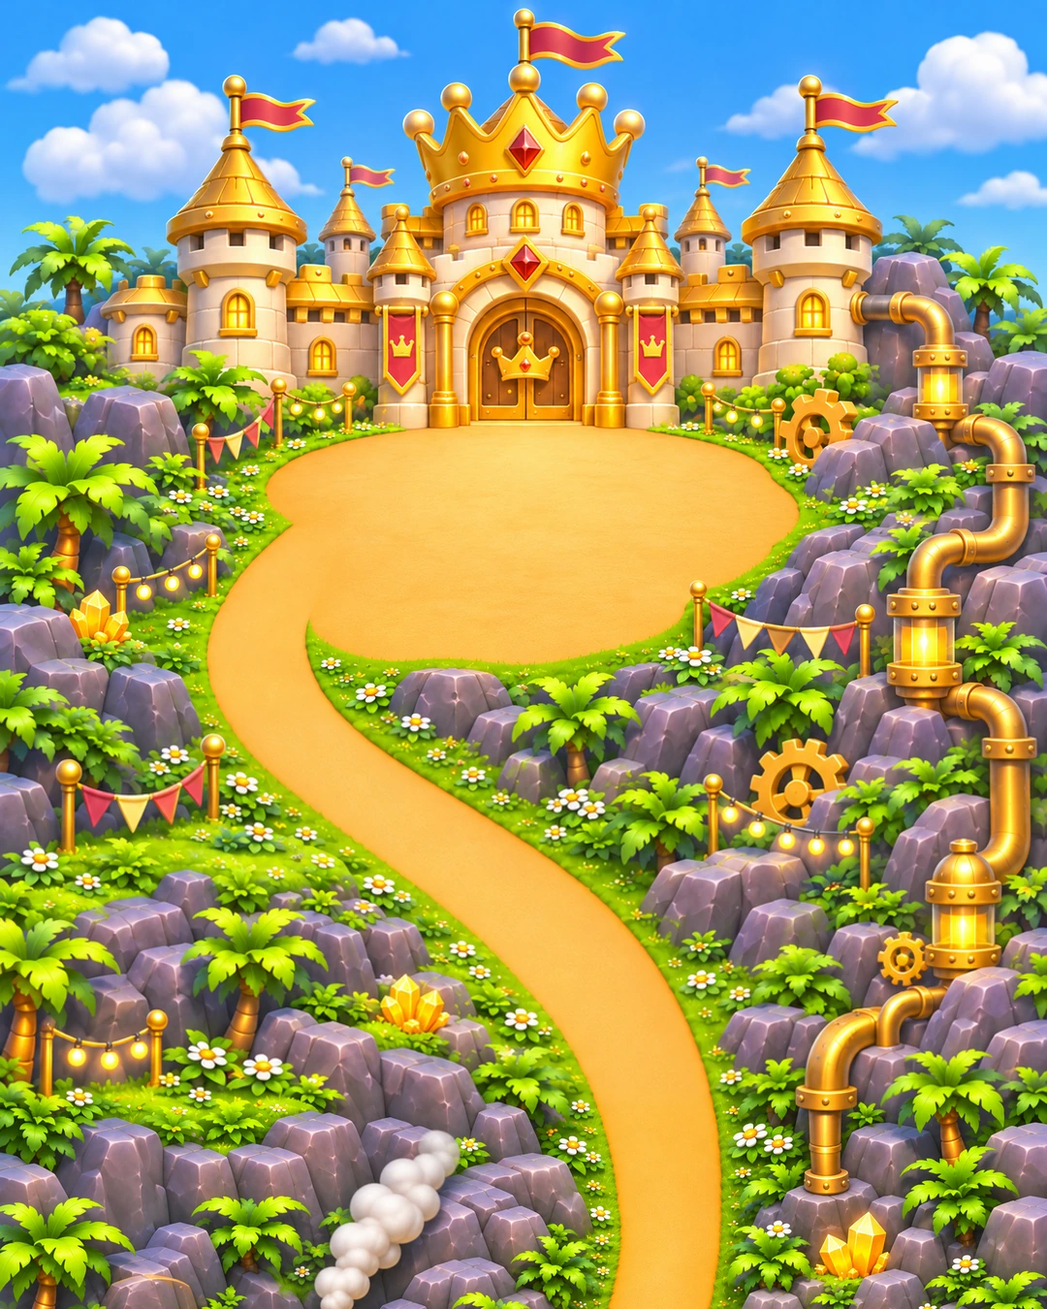
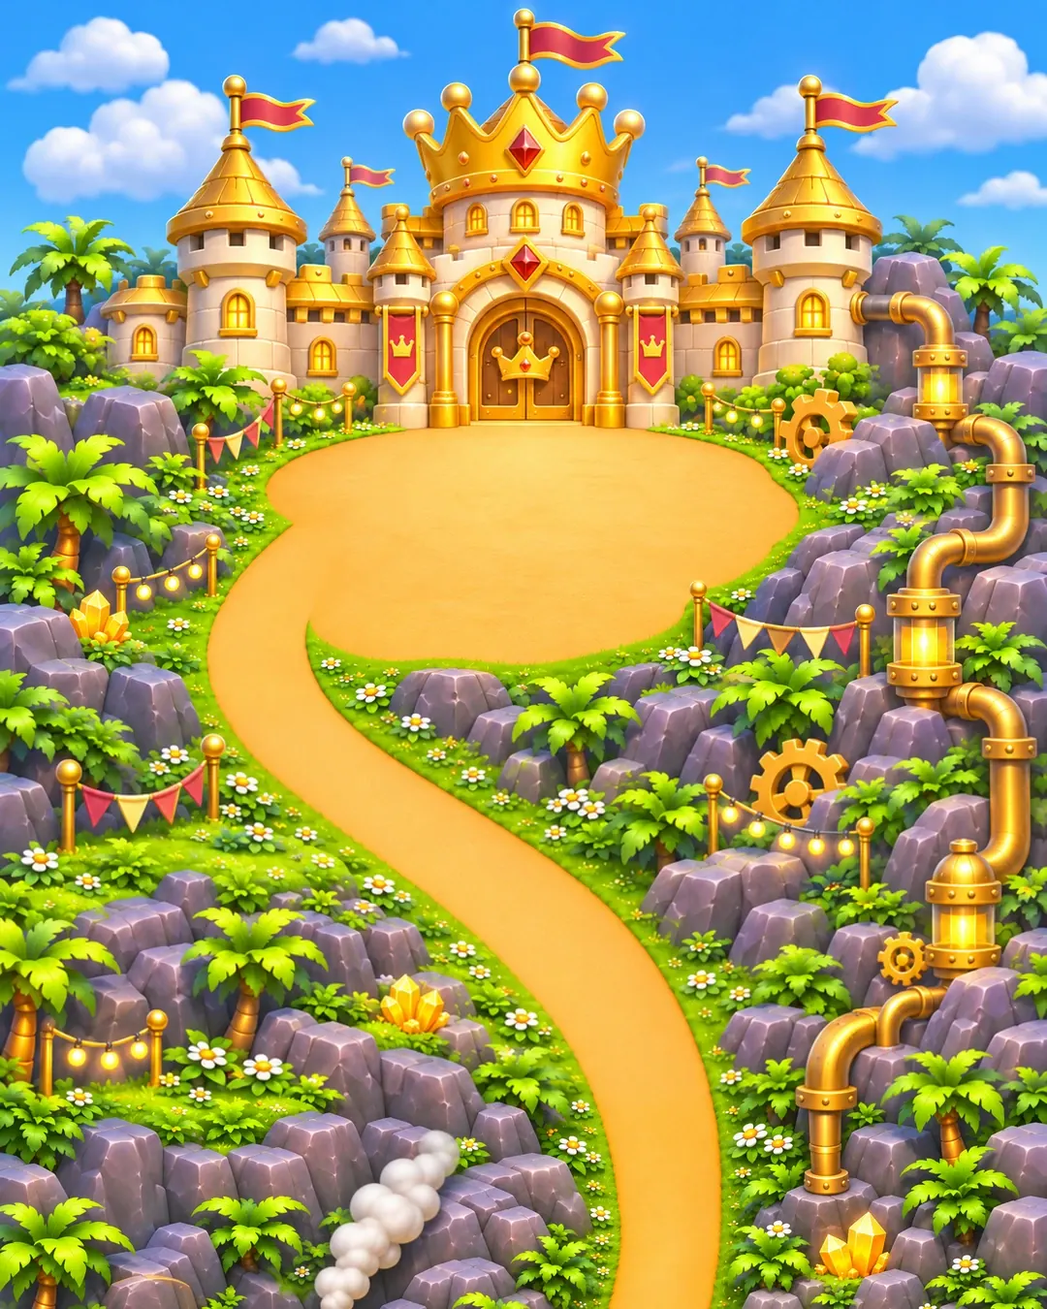
效能優化：圖片獨立快取（升版不重抓圖、木島地圖用到才下載）、金島背景壓縮一半、派對 CSS 合併、新增離線快取測試
Claude-Session: https://claude.ai/code/session_01W9KMAgp1CRKeHuYohfaeHn

diff --git a/css/style.css b/css/style.css
@@ -2047,21 +2047,35 @@ body.story-on .map-page .map-shop, body.story-on .map-page .dice-bar, body.story
   transition: left .55s ease-in, top .55s ease-in, transform .55s ease-in, opacity .55s; -webkit-tap-highlight-color: transparent; }
 .meadow-img { width: 100%; height: 100%; object-fit: contain; filter: drop-shadow(0 0 6px rgba(255, 255, 220, .95)); animation: ore-bob 1.3s ease-in-out infinite; }
 .meadow-item.got { transform: translate(-50%, -50%) scale(.35); opacity: .2; pointer-events: none; }
-/* 第 65 格：邀請卡與貼紙 */
-.invite-art { aspect-ratio: auto; background: #fff8ec; padding: 6px 0; }
-.invite-card { position: relative; width: min(62vw, 230px); margin: 0 auto; transition: width .4s; }
+/* 第 65 格：邀請卡（白色內框可貼 6～20 張貼紙、用粉彩畫圖） */
+.invite-art { aspect-ratio: auto; background: #fff8ec; padding: 4px 0; }
+.invite-card { position: relative; width: min(84vw, 320px); margin: 0 auto; transition: width .4s; }
 .invite-card.small { width: min(30vw, 110px); }
 .invite-card-img { display: block; width: 100%; height: auto; }
-.invite-area { position: absolute; left: 22%; right: 22%; top: 22%; bottom: 20%; }
-.card-sticker { position: absolute; width: 26%; height: auto; pointer-events: none; }
+.invite-area { position: absolute; left: 17%; right: 17%; top: 17%; bottom: 17%; }   /* 對齊卡片白色內框（和 js 的 AREA 一致） */
+.invite-draw { position: absolute; inset: 0; width: 100%; height: 100%; touch-action: none; cursor: crosshair; border-radius: 6px; }
+.invite-card.small .invite-draw { pointer-events: none; }
+.card-sticker { position: absolute; width: 18%; height: auto; pointer-events: none; }
 .invite-count { position: absolute; right: 4%; bottom: 4%; padding: 2px 8px; border-radius: 99px; background: rgba(255, 255, 255, .85); font-weight: 900; color: #8a4f12; font-size: .85rem; }
 .invite-count.ok { background: #ffe27a; }
 .invite-card.small .invite-count { display: none; }
+.pen-tray { display: flex; justify-content: center; align-items: center; gap: 8px; margin-bottom: 6px; }
+.pen-color { width: 32px; height: 32px; border-radius: 50%; border: 3px solid #fff; background: var(--pen); box-shadow: 0 0 0 2px #e6cf9a; padding: 0; cursor: pointer; font-size: 1rem; line-height: 1; }
+.pen-color.on { box-shadow: 0 0 0 3px #e08a2c; transform: scale(1.12); }
+.pen-eraser { background: #fff; }
+.pen-actions { display: grid; gap: 6px; }
+.pen-act { padding: 6px 10px; border-radius: 12px; border: 2px solid #f1d58f; background: #fffdf6; color: #8a6a3a; font-weight: 800; font-size: .8rem; cursor: pointer; }
+.pen-act:disabled { opacity: .4; cursor: default; }
 .sticker-tray, .deco-tray { display: flex; justify-content: center; gap: 10px; flex-wrap: wrap; }
+.sticker-tray { align-items: center; }
 .sticker-src, .deco-src { display: grid; justify-items: center; gap: 2px; padding: 6px 8px; border-radius: 16px; border: 2px solid #f1d58f; background: #fffdf6; cursor: grab; touch-action: none; user-select: none; -webkit-user-select: none; }
 .sticker-src img { width: 56px; height: 56px; object-fit: contain; pointer-events: none; }
 .sticker-src small, .deco-src small { font-weight: 800; color: #8a6a3a; font-size: .75rem; }
+.sticker-src.full { opacity: .45; }
+.sticker-src.shake { animation: sticker-shake .35s; }
+@keyframes sticker-shake { 25% { transform: translateX(-4px); } 75% { transform: translateX(4px); } }
 .sticker-ghost { position: fixed; z-index: 1300; width: 56px; height: 56px; object-fit: contain; transform: translate(-50%, -50%) scale(1.15); pointer-events: none; filter: drop-shadow(0 6px 6px rgba(0, 0, 0, .3)); }
+.invite-save { margin-left: 8px; }
 .invite-friends { display: flex; justify-content: center; gap: 6px; margin-top: 6px; }
 .invite-friend { position: relative; width: 31%; padding: 0; border: 0; background: none; cursor: pointer; }
 .friend-img { width: 100%; height: auto; transition: transform .25s; }
@@ -2069,44 +2083,20 @@ body.story-on .map-page .map-shop, body.story-on .map-page .dice-bar, body.story
 .friend-thanks { position: absolute; left: 50%; top: -6px; transform: translateX(-50%); padding: 2px 8px; border-radius: 10px; background: #fff; box-shadow: 0 2px 6px rgba(0, 0, 0, .2); font-weight: 900; font-size: .8rem; color: #e2473f; opacity: 0; transition: opacity .25s; white-space: nowrap; }
 .invite-friend.got .friend-thanks { opacity: 1; }
 .invite-friend:not(.got) { animation: ore-bob 1.6s ease-in-out infinite; }
-/* 第 92 格：派對布置 */
+/* 第 92 格：派對布置（裝飾 5 個排成一排） */
 .party-slot { position: absolute; width: 10%; aspect-ratio: 1; padding: 0; border: 0; border-radius: 50%; transform: translate(-50%, -88%); cursor: pointer;
   background: radial-gradient(circle, rgba(255, 250, 200, .95) 0, rgba(255, 230, 120, .55) 45%, rgba(255, 230, 120, 0) 70%); animation: ore-bob 1.2s ease-in-out infinite; }
 .party-slot.filled { background: none; animation: none; width: 11%; }
 .party-slot img { width: 100%; height: 100%; object-fit: contain; filter: drop-shadow(0 3px 2px rgba(40, 30, 10, .35)); }
 .party-slot.deco-balloons { width: 12%; }
-.deco-src { cursor: pointer; }
-.deco-src img { width: 44px; height: 44px; object-fit: contain; }
+.deco-tray { flex-wrap: nowrap; gap: 6px; }
+.deco-src { cursor: pointer; padding: 4px 5px; border-radius: 12px; min-width: 0; flex: 1 1 0; max-width: 64px; }
+.deco-src img { width: 36px; height: 36px; object-fit: contain; }
+.deco-src small { font-size: .68rem; white-space: nowrap; }
 .deco-src.on { border-color: #ff9c3a; background: #fff1d6; box-shadow: 0 0 0 3px rgba(255, 156, 58, .35); }
 @media (prefers-reduced-motion: reduce) { .meadow-img, .invite-friend, .party-slot, .wood-elf img { animation: none; } .meadow-item { transition: none; } }
-/* 修正：.scene-art img 會把卡片裡的圖撐滿，貼紙、卡片、動物要維持自己的大小 */
-.scene-art .card-sticker { width: 22%; height: auto; object-fit: contain; }
+/* .scene-art img 預設撐滿畫面；視窗裡的貼紙、卡片、動物、畫布維持自己的大小 */
+.scene-art .card-sticker { width: 18%; height: auto; object-fit: contain; }
 .scene-art .invite-card-img, .scene-art .friend-img { height: auto; object-fit: contain; }
-.scene-art .meadow-img, .scene-art .party-slot img { object-fit: contain; }
-/* 派對裝飾 5 個排成一排 */
-.deco-tray { flex-wrap: nowrap; gap: 6px; }
-.deco-src { padding: 4px 5px; border-radius: 12px; min-width: 0; flex: 1 1 0; max-width: 64px; }
-.deco-src img { width: 36px; height: 36px; }
-.deco-src small { font-size: .68rem; white-space: nowrap; }
-/* 2026-11-09 家長調整：邀請卡大一點、貼紙小一點，貼得下更多花瓣和樹葉 */
-.invite-card { width: min(84vw, 320px); }
-.scene-art .card-sticker { width: 13%; }
-.invite-art { padding: 4px 0; }
-.invite-area { left: 17%; right: 17%; top: 17%; bottom: 17%; }   /* 對齊卡片白色內框，可貼的範圍更大 */
-/* 2026-11-09 邀請卡：貼紙 18%、最多 20 張、白色內框可以用粉彩畫圖、做好後可下載 */
-.scene-art .card-sticker { width: 18%; }
-.invite-draw { position: absolute; inset: 0; width: 100%; height: 100%; touch-action: none; cursor: crosshair; border-radius: 6px; }
 .scene-art .invite-draw { width: 100%; height: 100%; }
-.invite-card.small .invite-draw { pointer-events: none; }
-.pen-tray { display: flex; justify-content: center; align-items: center; gap: 8px; margin-bottom: 6px; }
-.pen-color { width: 32px; height: 32px; border-radius: 50%; border: 3px solid #fff; background: var(--pen); box-shadow: 0 0 0 2px #e6cf9a; padding: 0; cursor: pointer; font-size: 1rem; line-height: 1; }
-.pen-color.on { box-shadow: 0 0 0 3px #e08a2c; transform: scale(1.12); }
-.pen-eraser { background: #fff; }
-.sticker-tray { align-items: center; }
-.pen-actions { display: grid; gap: 6px; }
-.pen-act { padding: 6px 10px; border-radius: 12px; border: 2px solid #f1d58f; background: #fffdf6; color: #8a6a3a; font-weight: 800; font-size: .8rem; cursor: pointer; }
-.pen-act:disabled { opacity: .4; cursor: default; }
-.sticker-src.full { opacity: .45; }
-.sticker-src.shake { animation: sticker-shake .35s; }
-@keyframes sticker-shake { 25% { transform: translateX(-4px); } 75% { transform: translateX(4px); } }
-.invite-save { margin-left: 8px; }
+.scene-art .meadow-img, .scene-art .party-slot img { object-fit: contain; }

diff --git a/sw.js b/sw.js
@@ -1,5 +1,5 @@
 /* 親子集點 Service Worker：離線可用。資料存在 localStorage，不受快取影響。 */
-var CACHE = 'cgp-shell-v119';
+var CACHE = 'cgp-shell-v120';
 var SHELL = [
   './', 'index.html', 'css/style.css', 'js/store.js', 'js/rules-csv.js', 'js/report.js', 'js/board-gold.js', 'js/board-gold-02.js', 'js/board-gold-03.js', 'js/board-gold-04.js', 'js/game.js', 'js/art.js', 'js/app.js',
   'manifest.webmanifest', 'images/gold-island.webp', 'images/gold/region01.webp', 'images/gold/region02.webp', 'images/gold/region03.webp', 'images/gold/region04.webp', 'images/gold/tower_off.webp', 'images/gold/tower_on.webp', 'images/gold/technician.webp', 'images/gold/stone.webp', 'images/gold/ore.webp', 'images/gold/minecart.webp', 'images/gold/rail_before.webp', 'images/gold/rail_after.webp', 'images/wood/leaf_bg.webp', 'images/wood/leaf_pile.webp', 'images/wood/leaf_pinecone.webp', 'images/wood/leaf_squirrel.webp', 'images/wood/leaf_empty.webp', 'images/wood/elf.webp', 'images/wood/party/meadow.webp', 'images/wood/party/flower.webp', 'images/wood/party/berries.webp', 'images/wood/party/card.webp', 'images/wood/party/petal.webp', 'images/wood/party/leaf.webp', 'images/wood/party/bunny.webp', 'images/wood/party/hedgehog.webp', 'images/wood/party/owl.webp', 'images/wood/party/party_empty.webp', 'images/wood/party/party_done.webp', 'images/wood/party/vase.webp', 'images/wood/party/juice.webp', 'images/wood/party/basket.webp', 'images/wood/party/balloons.webp', 'images/mascot.webp', 'images/float-castle.webp', 'images/chest.webp',
@@ -7,21 +7,55 @@ var SHELL = [
   'images/characters/drop.webp', 'images/characters/sprout.webp', 'images/characters/flame.webp', 'images/characters/stone.webp', 'images/items/dice_6.webp', 'images/items/dice_12.webp', 'images/items/roller_skate.webp', 'images/islands/wood.webp', 'images/islands/water.webp', 'images/islands/fire.webp', 'images/islands/earth.webp', 'images/items/star.webp', 'images/tiles/start.webp', 'images/tiles/chest.webp', 'images/tiles/chance.webp', 'images/tiles/minigame.webp', 'images/tiles/finish.webp', 'images/tiles/door.webp', 'images/tiles/shop.webp', 'images/tiles/fate.webp', 'images/minigame/bg.webp', 'images/minigame/star.webp', 'images/items/shield.webp', 'images/items/magic_dice.webp', 'images/items/lucky_medal.webp', 'images/items/flying_wings.webp', 'images/items/magic_door.webp', 'images/items/mystery_chest.webp', 'images/items/airplane.webp', 'images/items/golden_key.webp', 'images/items/treasure_magnet.webp', 'images/items/reroll_ticket.webp', 'images/items/bonus_play.webp', 'icons/icon.svg', 'icons/icon-192.png', 'icons/icon-512.png'
 ];
 
+// 圖片放在不跟版本走的快取：升版時只下載還沒有的圖，不再整包重抓（約 4MB）
+var IMG_CACHE = 'cgp-img-v1';
+function isImage(url) { return /\.(webp|png|jpe?g|svg|gif)$/i.test(new URL(url, self.location.href).pathname); }
+
 self.addEventListener('install', function (e) {
-  e.waitUntil(caches.open(CACHE).then(function (c) { return c.addAll(SHELL); }).then(function () { return self.skipWaiting(); }));
+  var core = SHELL.filter(function (u) { return !isImage(u); });
+  var imgs = SHELL.filter(isImage);
+  e.waitUntil(Promise.all([
+    // 程式、樣式、頁面：每次升版都重新抓（很小）；cache: 'reload' 略過瀏覽器暫存，避免把舊版程式存進新快取
+    caches.open(CACHE).then(function (c) { return c.addAll(core.map(function (u) { return new Request(u, { cache: 'reload' }); })); }),
+    // 圖片：圖片快取或舊版快取裡已有就沿用，沒有才下載
+    caches.open(IMG_CACHE).then(function (ic) {
+      return Promise.all(imgs.map(function (u) {
+        return ic.match(u, { ignoreSearch: true }).then(function (hit) {
+          if (hit) return null;
+          return caches.match(u, { ignoreSearch: true }).then(function (old) {
+            return old ? ic.put(u, old) : ic.add(u);
+          });
+        });
+      }));
+    })
+  ]).then(function () { return self.skipWaiting(); }));
 });
 
 self.addEventListener('activate', function (e) {
   e.waitUntil(caches.keys().then(function (keys) {
-    return Promise.all(keys.filter(function (k) { return k !== CACHE; }).map(function (k) { return caches.delete(k); }));
+    return Promise.all(keys.filter(function (k) { return k !== CACHE && k !== IMG_CACHE; }).map(function (k) { return caches.delete(k); }));
   }).then(function () { return self.clients.claim(); }));
 });
 
-// 網路優先（確保更新即時生效），離線或伺服器錯誤時改用快取
 self.addEventListener('fetch', function (e) {
   if (e.request.method !== 'GET' || new URL(e.request.url).origin !== location.origin) return;
+  if (isImage(e.request.url)) {
+    // 圖片：先用快取（馬上顯示），背景再向伺服器確認有沒有換新圖（沒變只回 304），下次開就是新圖。
+    // 不在 SHELL 的圖（例如之後的木島地圖）第一次用到才下載，之後離線也能用。
+    e.respondWith(caches.open(IMG_CACHE).then(function (ic) {
+      return ic.match(e.request, { ignoreSearch: true }).then(function (hit) {
+        var update = fetch(e.request.url, { cache: 'no-cache', credentials: 'same-origin' }).then(function (res) {
+          if (res.ok) ic.put(e.request, res.clone());
+          return res;
+        });
+        if (hit) { e.waitUntil(update.catch(function () { /* 離線 */ })); return hit; }
+        return update;
+      });
+    }));
+    return;
+  }
+  // 頁面、程式、樣式：網路優先（確保更新即時生效），離線或伺服器錯誤時改用快取
   e.respondWith(
-    // cache: 'no-cache'：每次都向伺服器確認是否有新版（沒變時只回 304，很快），避免瀏覽器暫存讓更新延遲
     fetch(e.request.url, { cache: 'no-cache', credentials: 'same-origin' }).then(function (res) {
       if (!res.ok) throw new Error('bad response');
       var copy = res.clone();

diff --git a/tests/e2e.js b/tests/e2e.js
@@ -10,12 +10,16 @@ const ROOT = path.join(__dirname, '..');
 const TYPES = { '.html': 'text/html', '.js': 'text/javascript', '.css': 'text/css', '.json': 'application/json',
   '.webmanifest': 'application/manifest+json', '.svg': 'image/svg+xml', '.png': 'image/png' };
 const SHOT_DIR = process.env.SHOT_DIR || null;
+const REQ_LOG = [];          // 伺服器收到的路徑（離線快取測試用）
+let SW_OVERRIDE = null;      // 模擬升版：改由這段內容回應 sw.js
 
 function serve() {
   return new Promise((resolve) => {
     const server = http.createServer((req, res) => {
       let p = decodeURIComponent(new URL(req.url, 'http://x').pathname);
       if (p.endsWith('/')) p += 'index.html';
+      REQ_LOG.push(p);
+      if (p === '/sw.js' && SW_OVERRIDE) { res.writeHead(200, { 'Content-Type': 'text/javascript' }); return res.end(SW_OVERRIDE); }
       const file = path.join(ROOT, p);
       if (!file.startsWith(ROOT) || !fs.existsSync(file)) { res.writeHead(404); return res.end(); }
       res.writeHead(200, { 'Content-Type': TYPES[path.extname(file)] || 'application/octet-stream' });
@@ -2268,6 +2272,42 @@ async function main() {
       await c.close();
     }
     console.log('✔ 星光成就劇場：單一／2／5／10 個成就、主徽章最高階、小徽章點選、橫向捲動、直式橫式、音效開關、返回鍵、查看收藏、減少動態、重新整理不重複');
+  }
+
+  // ---------- 離線快取：圖片放在不跟版本走的快取，升版不重抓；離線時從快取開 ----------
+  {
+    const c = await browser.newContext({ ...devices['Pixel 5'], serviceWorkers: 'allow' });
+    const q = await c.newPage();
+    await q.goto(url);
+    await q.waitForFunction(() => navigator.serviceWorker.controller, null, { timeout: 20000 });
+    const swSrc = fs.readFileSync(path.join(ROOT, 'sw.js'), 'utf8');
+    const ver = swSrc.match(/var CACHE = '([^']+)'/)[1];
+    const imgCount = (swSrc.split('];')[0].match(/'images\/[^']+'/g) || []).length;
+    const cached = () => q.evaluate(async () => { const keys = await caches.keys(); const out = {}; for (const k of keys) out[k] = (await (await caches.open(k)).keys()).map((r) => new URL(r.url).pathname); return out; });
+    await q.waitForFunction(async () => (await caches.keys()).includes('cgp-img-v1'), null, { timeout: 20000 });
+    let cs = await cached();
+    assert.ok(cs['cgp-img-v1'].includes('/images/gold/region01.webp'), '圖片放在圖片快取');
+    assert.ok(cs['cgp-img-v1'].length >= imgCount, '安裝時所有 SHELL 圖片都進快取');
+    assert.ok(!cs[ver].some((u) => /\.webp$/.test(u)), '版本快取只放程式與頁面');
+    // 模擬升版：只換 CACHE 名稱 → 程式重抓、圖片不重抓
+    REQ_LOG.length = 0;
+    SW_OVERRIDE = swSrc.replace(ver, 'cgp-shell-test-next');
+    await q.evaluate(async () => { const r = await navigator.serviceWorker.getRegistration(); await r.update(); });
+    await q.waitForFunction(async () => { const k = await caches.keys(); return k.length === 2 && k.includes('cgp-shell-test-next') && !!(await (await caches.open('cgp-shell-test-next')).match('js/app.js')); }, null, { timeout: 20000 });   // 新版安裝完成、舊版快取已刪
+    await q.waitForTimeout(1500);   // 等伺服器把請求記完
+    const imgReq = REQ_LOG.filter((p) => p.startsWith('/images/')).length;
+    assert.ok(REQ_LOG.includes('/js/app.js'), '升版會重抓程式：' + REQ_LOG.join(' '));
+    assert.ok(imgReq < imgCount / 3, '升版不重抓全部圖片（實際 ' + imgReq + ' / ' + imgCount + '）');
+    SW_OVERRIDE = null;
+    // 離線：重新整理仍能開，地圖背景從快取載入
+    await q.waitForTimeout(500);
+    await c.setOffline(true);
+    await q.reload();
+    await q.waitForFunction(() => document.getElementById('app').children.length > 0, null, { timeout: 10000 });
+    const ok = await q.evaluate(() => new Promise((res) => { const im = new Image(); im.onload = () => res(im.naturalWidth); im.onerror = () => res(0); im.src = 'images/gold/region01.webp'; }));
+    assert.equal(ok, 1080, '離線時圖片從快取載入');
+    await c.close();
+    console.log('✔ 離線快取：圖片獨立快取、升版只重抓程式（圖片請求 ' + imgReq + ' / ' + imgCount + '）、離線可開啟並顯示圖片');
   }
 
   assert.deepEqual(errors, [], '頁面不得出現 JS 錯誤或原生對話框');

diff --git a/js/app.js b/js/app.js
@@ -4,7 +4,7 @@
 
   var CGP = window.CGP;
   /** 每次發布更新時修改，方便在「設定 → 備份」確認手機上是不是新版 */
-  var APP_VERSION = '2026.11.09-109';
+  var APP_VERSION = '2026.11.09-110';
   var store;
   try {
     store = new CGP.Store();

diff --git a/docs/HANDOFF.md b/docs/HANDOFF.md
@@ -1,6 +1,6 @@
 # 親子集點冒險 App：交接文件
 
-> 最後更新：2026-11-09｜App 版本 `2026.11.09-109`｜Service Worker 快取 `cgp-shell-v119`｜`main` 最新：森林派對邀請卡可畫圖（5 色粉彩）、貼紙最多 20 張、做好可下載
+> 最後更新：2026-11-09｜App 版本 `2026.11.09-110`｜Service Worker 快取 `cgp-shell-v120`｜`main` 最新：效能優化（圖片獨立快取、升版不重抓圖、金島背景壓縮一半）
 > 給接手的開發者（或下一個 Claude session）。**新對話請先讀第 0、1 節**，再依需要查後面各節與 `PROJECT_SPEC.md`。
 
 ---
@@ -14,7 +14,7 @@
 - 小遊戲試玩網址：https://dollyswim.github.io/Child-good-point/#minigame-test（抓住星星）、https://dollyswim.github.io/Child-good-point/#leaf-test（木島落葉找松果）
 
 ### 每次修改的固定流程
-1. 改圖片或 JS／CSS：新檔加入 `sw.js` 的 `SHELL`，**升 `sw.js` 的 `CACHE`**（目前 `cgp-shell-v119`）與 **`js/app.js` 的 `APP_VERSION`**（目前 `2026.11.09-109`，格式 `日期-流水號`），並更新本文件第 1 行與 `docs/ACCEPTANCE_CHECKLIST.md` 的版本號。
+1. 改圖片或 JS／CSS：新檔加入 `sw.js` 的 `SHELL`，**升 `sw.js` 的 `CACHE`**（目前 `cgp-shell-v120`）與 **`js/app.js` 的 `APP_VERSION`**（目前 `2026.11.09-110`，格式 `日期-流水號`），並更新本文件第 1 行與 `docs/ACCEPTANCE_CHECKLIST.md` 的版本號。
 2. 測試：`npm test`（單元，約 1 秒，目前 139 項）、`npm run test:e2e`（Playwright 手機尺寸，**約 3～4 分鐘**，建議放背景跑）。兩者都通過才算完成。
 3. 提交訊息用繁體中文；推送 `git push origin main`。
 4. 用繁體中文回報：修改檔案、新增功能、測試結果、已知問題、下一步。
@@ -57,6 +57,7 @@
 - 落葉找松果畫面定案（家長）：25 格置中在背景中間空草地；提示框在上方、中線對準兩側蘑菇，逗號後換行；先看時 25 堆全部掀開；松果、松鼠不加淡色卡（只用去背圖）；回合數、剩餘機會加半透明白底。
 - 落葉找松果正式圖已上線（家長 Gemini 圖，`images/wood/leaf_*.webp`：森林背景、落葉堆、松果、松鼠、翻開的空地；4 張只去除與外框相連的白底，保留奶油色貼紙邊框）。
 - 木島草圖到貨後：核對木島劇情的導遊／道具位置（`ISLAND_STORY.wood` 的相對位移）。
+- 效能優化（2026-11-09）：`sw.js` 圖片改放獨立快取 `cgp-img-v1`（先用快取、背景確認新圖），升版只重抓程式與頁面（約 600KB，原本每次約 4.5MB）；安裝時已有的圖從舊快取搬過來；程式檔安裝改用 `cache: reload`，避免把瀏覽器暫存的舊程式存進新版。金島 4 張背景 WebP 品質 78 重壓（約 400KB → 200KB）。E2E 新增離線快取測試。CSS 派對區段已合併；全檔仍有約 140 個重複選擇器（多數在 media query 內），之後有空再整理。
 - 木島地圖 Gemini 第 1 版已驗收（2026-11-09，家長決定改請 Codex 週五重畫，不再請 Gemini 修）：格距與道路接縫通過；退回重畫：缺第 1～3 區原尺寸圖、接縫兩側樹木疊影對不上、第 93～99 格不在路上、第 65／92 格站位壓到路或欄杆。清單見 `docs/art/WOOD_MAP_REVIEW_2026-11-09.md`。
 - 實機確認：第 5 格撿礦石面板、第 30 格拉轉轍器、能源塔連點充電在手機上的手感與位置。
 

diff --git a/CLAUDE.md b/CLAUDE.md
@@ -10,5 +10,6 @@
 - 先讀 `PROJECT_SPEC.md`、`docs/HANDOFF.md`，Phase 4 進度見 `docs/PHASE4_PLAN.md`、寶物商店與神諭祝福見 `docs/TREASURE_SHOP_PLAN.md`，木島規劃見 `docs/art/WOOD_ISLAND_PLAN.md`，美術提示詞見 `docs/art-prompts.md`。
 - 純 HTML／CSS／JS 的 PWA，不需建置。測試：`npm test`（單元）、`npm run test:e2e`（Playwright 手機尺寸）。
 - 改圖片或 JS 時：新檔加入 `sw.js` 的 `SHELL`，並升 `CACHE` 版本與 `js/app.js` 的 `APP_VERSION`。
+- 圖片在 `sw.js` 的獨立快取 `cgp-img-v1`（不跟版本走）：升版不重抓圖；同檔名換新圖時，孩子要開第二次才看到（需要立刻生效就換檔名）。其他島（木島以後）的大地圖背景**不要**加入 `SHELL`，第一次用到才下載並快取。
 - 保留既有存檔：新欄位在 `migrate()` 補預設值，不改既有規則（每日 3 骰、小遊戲 1 次、道具價格）。
 - 家長提供的圖多為白底：預設放白色卡片顯示（contain、不裁切）；需要去背時先回報，且只去除與外框相連的白底，不可全域刪白。

diff --git a/docs/ACCEPTANCE_CHECKLIST.md b/docs/ACCEPTANCE_CHECKLIST.md
@@ -1,11 +1,11 @@
 # 手機實機驗收清單
 
-> 版本 `2026.11.09-109`｜2026-11-07 更新｜在 Android 手機上照順序勾選。
+> 版本 `2026.11.09-110`｜2026-11-07 更新｜在 Android 手機上照順序勾選。
 > 自動測試（模擬手機 360／390／430px）已全部通過；這份清單是確認**真的手機、安裝到主畫面的 App** 也正常。
 
 ## 0. 開始前（一定要做）
 - [ ] ⚙ 設定 → 備份 → **匯出 JSON**，先把現在的資料存一份
-- [ ] 設定 → 備份 → App 版本顯示 `2026.11.09-109`（不是的話：關掉 App 再開一次；還不是就到瀏覽器重新整理）
+- [ ] 設定 → 備份 → App 版本顯示 `2026.11.09-110`（不是的話：關掉 App 再開一次；還不是就到瀏覽器重新整理）
 - [ ] 小孩頁面右上角（設定城堡下方）→「新增孩子」→ 新增一位「測試」孩子，下面的冒險測試都用他，不影響真的孩子
 
 ## 1. 基本功能
